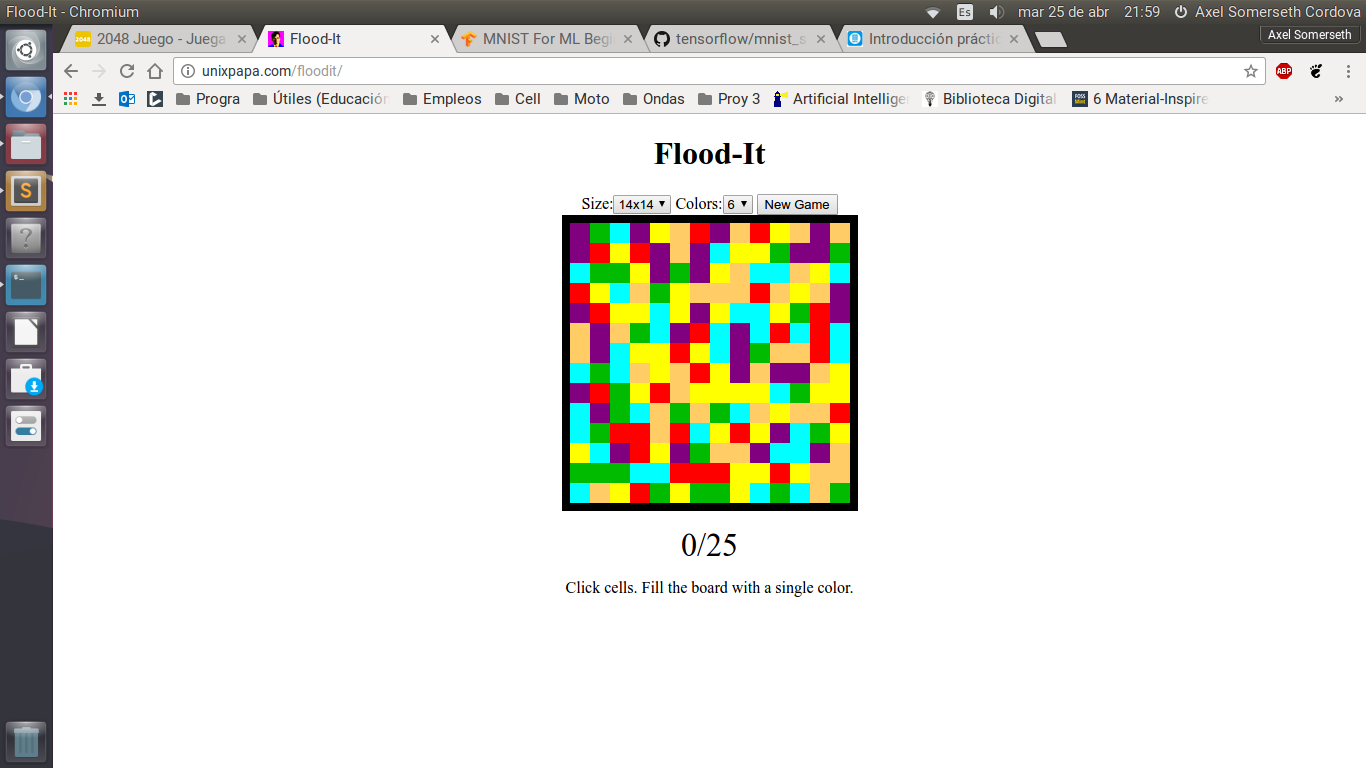
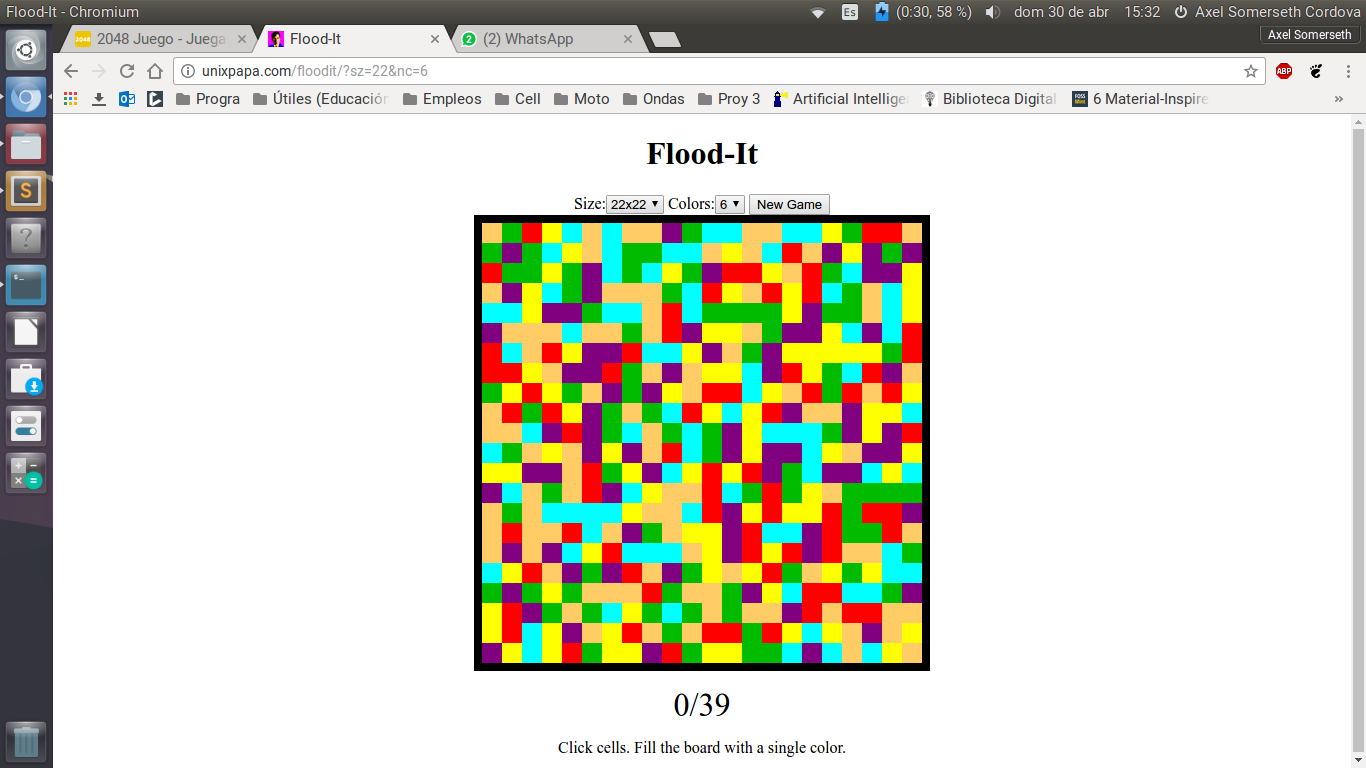
Flood-It 22x22

diff --git a/main.py b/main.py
@@ -65,11 +65,11 @@ def main():
 		while True:
 			pantalla_2048 = capturador.capturar_completa()
 			posiciones = mapeador.vector_de_posiciones
-			#print mapeador.consultar_colores(pantalla_2048)
+			vector_de_entrada = mapeador.consultar_colores(pantalla_2048)
 			efector.clic(posiciones[bandera][0], posiciones[bandera][1])
-			time.sleep(1)
+			#time.sleep(1)
 			bandera += 1
-			if bandera > 20:
+			if bandera > 483:
 				break
 	else:
 		print "No se esta jugando nada"
@@ -77,12 +77,7 @@ def main():
 			codigo en caso de no jugar
 		'''
 
-	
-	
 
-
-
-	
 
 if __name__ == '__main__':
 	main()

diff --git a/efectores/Efectores.py b/efectores/Efectores.py
@@ -5,6 +5,12 @@ class Efectores:
 	def __init__(self):
 		self.tecla = PyKeyboard()
 		self.raton = PyMouse()
+		self.teclas_2048 = {
+			#0: tecla.up_key
+			#1: tecla.right_key
+			#2: tecla.down_key
+			#3: tecla.left_key
+		}
 
 	def clic(self, posicion_x, posicion_y): 
 		#El numero (tercer argumento) significa el tipo de clic, 1 clic izquierdo y 2 clic derecho

diff --git a/sensores/MapeadorVectorial.py b/sensores/MapeadorVectorial.py
@@ -47,11 +47,11 @@ class MapeadorVectorial:
 				[497, 614], [606, 614],	[716, 614],	[825, 614]
 			]
 		elif self.juego_flood_it:
-			y = 228
-			for j in range(1, 14):
+			y = 212
+			for j in range(0, 22):
 				y += 20
-				x = 575
-				for i in range(1, 14):
+				x = 475
+				for i in range(0, 22):
 					x += 20
 					self.vector_de_posiciones.append([x, y])
 
